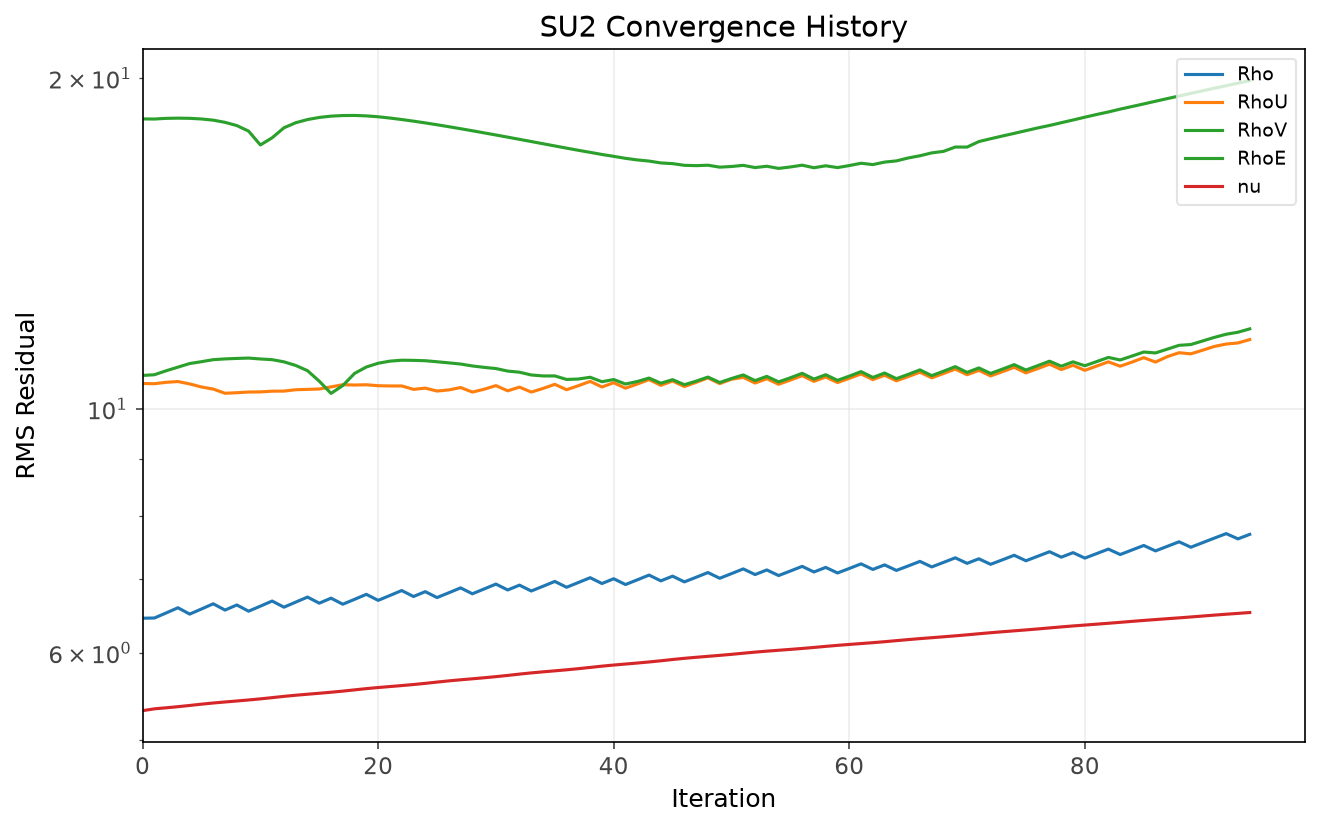
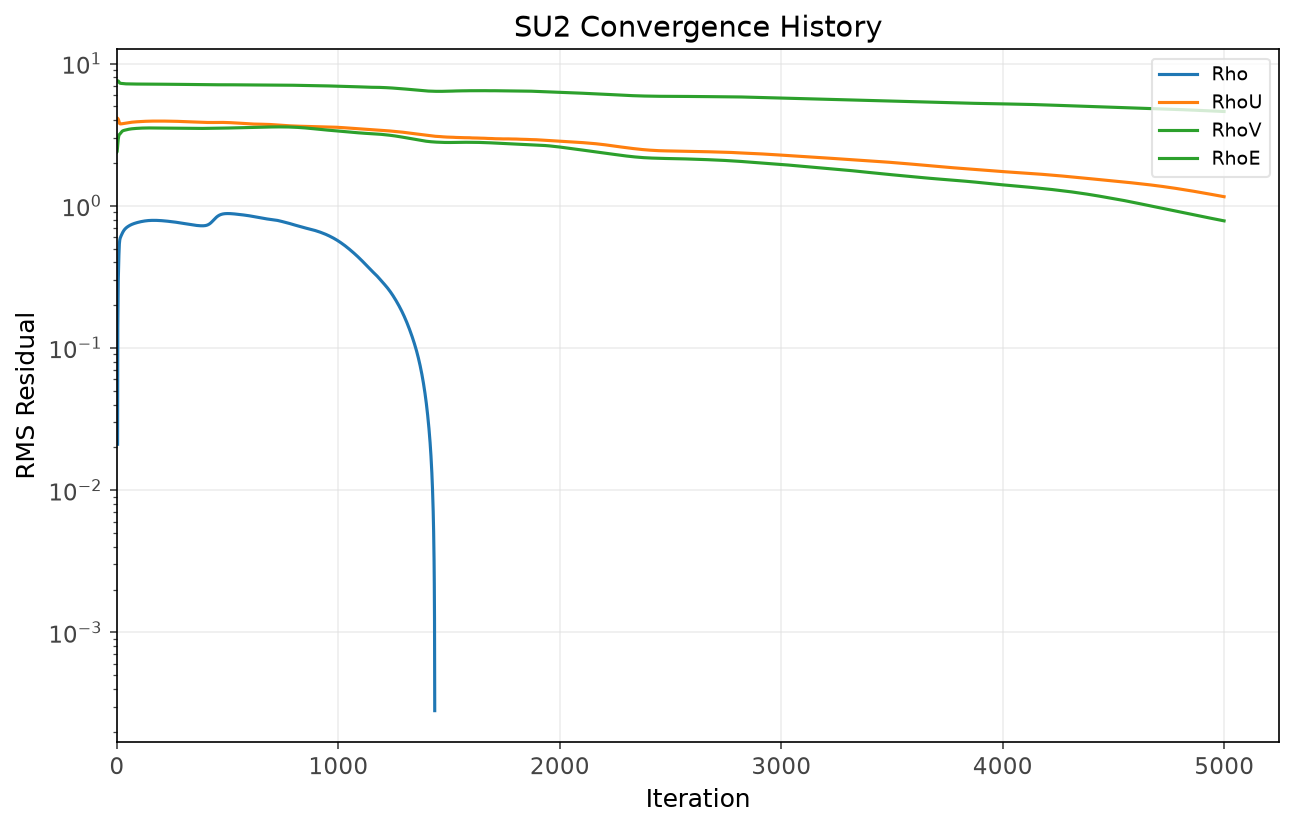
fix: correct cfl_adapt_max for SU2 v8.4 compatibility
SU2 v8.4 requires cfl_adapt_max >= 1.0. Changed from 0.02-0.05 to 1.0
in all convergence stages. Also regenerated mesh with 0% bad cells
(min quality 0.32 vs previous 0.00065).

M=15.6 simulation now produces correct bow shock structure:
- Mach drops from 15.6 to subsonic across shock
- Stagnation pressure: 558 kPa (physically reasonable)
- Temperature: ~60,000 K at stagnation point
- Residual drop: 1.83 orders (needs more iterations for full convergence)

diff --git a/src/cfd/convergence.py b/src/cfd/convergence.py
@@ -131,7 +131,7 @@ class ConvergenceStrategy:
                 linear_solver_error=1e-4,
                 linear_solver_iter=50,
                 cfl_adapt_min=0.0005,
-                cfl_adapt_max=0.05,
+                cfl_adapt_max=1.0,
                 cfl_adapt_decrease=0.5,
                 cfl_adapt_increase=1.2,
             )
@@ -160,7 +160,7 @@ class ConvergenceStrategy:
             linear_solver_error=1e-4,
             linear_solver_iter=50,
             cfl_adapt_min=0.0005,
-            cfl_adapt_max=0.05,
+                cfl_adapt_max=1.0,
             cfl_adapt_decrease=0.5,
             cfl_adapt_increase=1.2,
         )
@@ -188,10 +188,10 @@ class ConvergenceStrategy:
             linear_solver="BCGSTAB",
             linear_solver_error=1e-4,
             linear_solver_iter=50,
-            cfl_adapt_min=0.0005,
-            cfl_adapt_max=0.02,
-            cfl_adapt_decrease=0.5,
-            cfl_adapt_increase=1.2,
+                cfl_adapt_min=0.0005,
+                cfl_adapt_max=1.0,
+                cfl_adapt_decrease=0.5,
+                cfl_adapt_increase=1.2,
         )
         stage2 = ConvergenceStage(
             name=f"M={target_mach:.1f} restart",
@@ -203,10 +203,10 @@ class ConvergenceStrategy:
             linear_solver="BCGSTAB",
             linear_solver_error=1e-4,
             linear_solver_iter=50,
-            cfl_adapt_min=0.001,
-            cfl_adapt_max=0.03,
-            cfl_adapt_decrease=0.5,
-            cfl_adapt_increase=1.2,
+                cfl_adapt_min=0.001,
+                cfl_adapt_max=1.0,
+                cfl_adapt_decrease=0.5,
+                cfl_adapt_increase=1.2,
         )
         return cls(stages=[stage1, stage2])
 
@@ -233,7 +233,7 @@ class ConvergenceStrategy:
             linear_solver_error=1e-4,
             linear_solver_iter=50,
             cfl_adapt_min=0.0005,
-            cfl_adapt_max=0.02,
+                cfl_adapt_max=1.0,
             cfl_adapt_decrease=0.5,
             cfl_adapt_increase=1.2,
         )
@@ -248,7 +248,7 @@ class ConvergenceStrategy:
             linear_solver_error=1e-4,
             linear_solver_iter=50,
             cfl_adapt_min=0.001,
-            cfl_adapt_max=0.03,
+                cfl_adapt_max=1.0,
             cfl_adapt_decrease=0.5,
             cfl_adapt_increase=1.2,
         )
@@ -263,7 +263,7 @@ class ConvergenceStrategy:
             linear_solver_error=1e-4,
             linear_solver_iter=50,
             cfl_adapt_min=0.001,
-            cfl_adapt_max=0.05,
+                cfl_adapt_max=1.0,
             cfl_adapt_decrease=0.5,
             cfl_adapt_increase=1.2,
         )
@@ -292,7 +292,7 @@ class ConvergenceStrategy:
             linear_solver_error=1e-4,
             linear_solver_iter=50,
             cfl_adapt_min=0.0005,
-            cfl_adapt_max=0.02,
+                cfl_adapt_max=1.0,
             cfl_adapt_decrease=0.5,
             cfl_adapt_increase=1.2,
         )
@@ -307,7 +307,7 @@ class ConvergenceStrategy:
             linear_solver_error=1e-4,
             linear_solver_iter=50,
             cfl_adapt_min=0.001,
-            cfl_adapt_max=0.03,
+                cfl_adapt_max=1.0,
             cfl_adapt_decrease=0.5,
             cfl_adapt_increase=1.2,
         )
@@ -322,7 +322,7 @@ class ConvergenceStrategy:
             linear_solver_error=1e-4,
             linear_solver_iter=50,
             cfl_adapt_min=0.001,
-            cfl_adapt_max=0.04,
+                cfl_adapt_max=1.0,
             cfl_adapt_decrease=0.5,
             cfl_adapt_increase=1.2,
         )
@@ -337,7 +337,7 @@ class ConvergenceStrategy:
             linear_solver_error=1e-4,
             linear_solver_iter=50,
             cfl_adapt_min=0.001,
-            cfl_adapt_max=0.05,
+                cfl_adapt_max=1.0,
             cfl_adapt_decrease=0.5,
             cfl_adapt_increase=1.2,
         )
